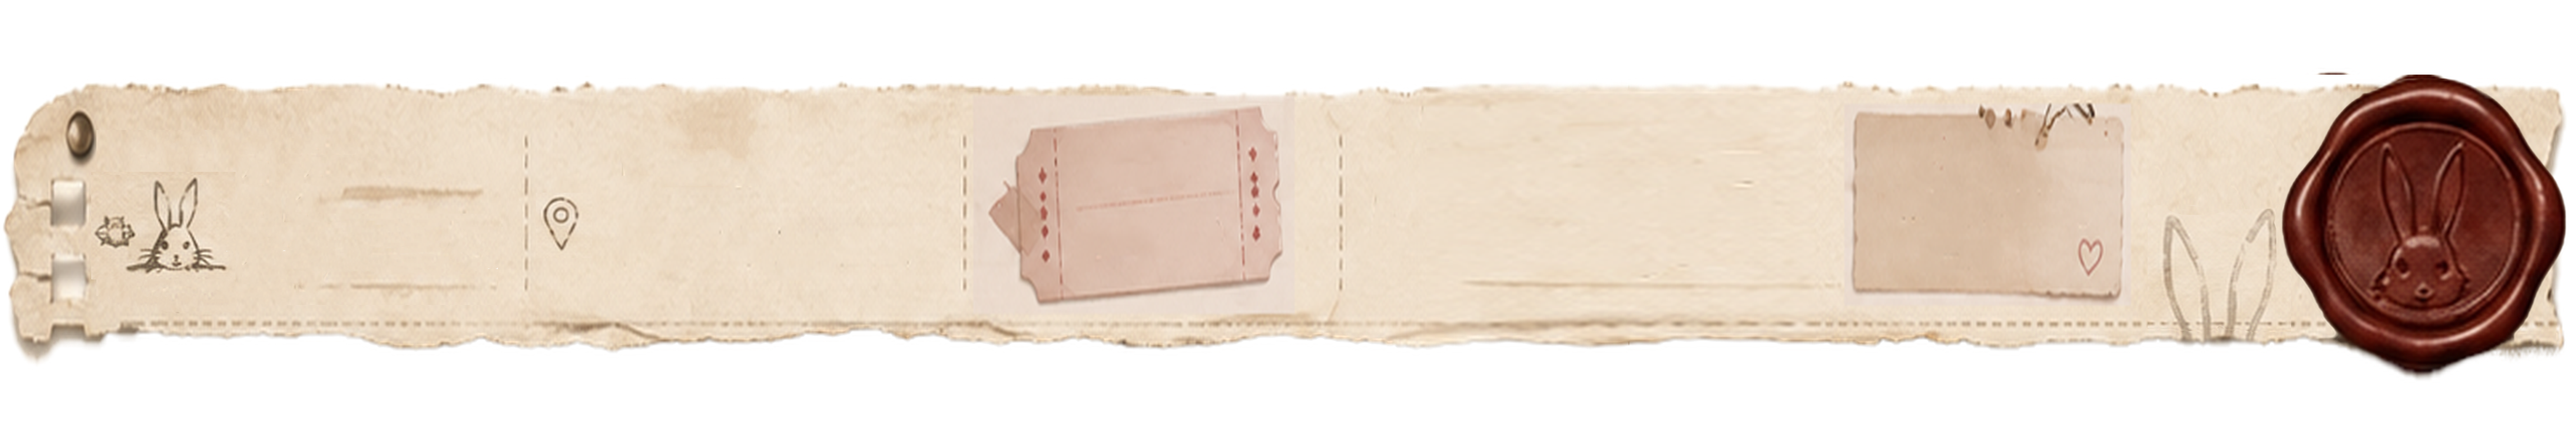
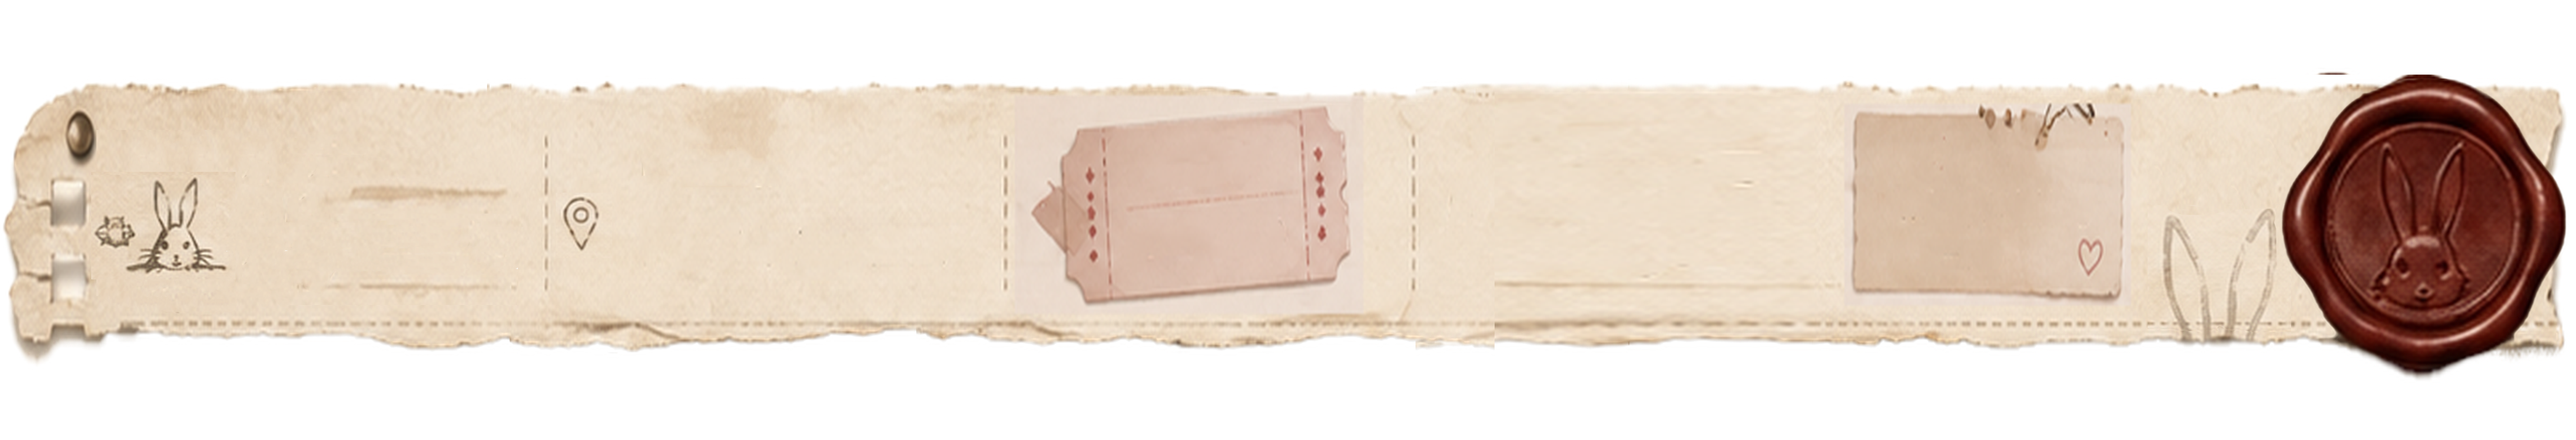
Update Krueger top statusbar

diff --git a/krueger-top-statusbar/index.html b/krueger-top-statusbar/index.html
@@ -1,6 +1,6 @@
-<head><script type="module">var e={455(e,t){t.A=(e,t)=>{const n=e.__vccOpts||e;for(const[e,a]of t)n[e]=a;return n}}},t={};const n=Vue,a={class:'strip-stage','aria-label':'正文前顶部状态栏'},l={class:'status-field time-field'},r={class:'time-line time-date'},o={class:'time-line time-clock'},s={class:'status-field location-field'},c={class:'status-value'},i=['aria-expanded'],u={class:'status-value'},p={class:'status-field weather-field'},m={class:'status-value'},d=['aria-expanded'],f={class:'paper-title'},k={class:'paper-content'},B=(0,n.defineComponent)({__name:'app',setup(e){const t=(0,n.ref)({time:'',location:'',scene:'',weather:'',note:''}),B=(0,n.ref)(null),E=(0,n.computed)(()=>function(e){const t=e.split(/\s*·\s*/g).map(e=>e.trim()).filter(Boolean);if(t.length>=4)return{date:`${t[0]}·${t[1]}·${t[2]}`,weekdayTime:t.slice(3).join(' · ')};return{date:e,weekdayTime:''}}(t.value.time));function g(e){B.value=B.value===e?null:e}function v(){B.value=null}function y(e){return e.split(/([A-Za-z0-9][A-Za-z0-9'"’.,:;!?()/%&+\-\s]*)/g).filter(Boolean).map(e=>({text:e,latin:/[A-Za-z0-9]/.test(e)&&!/[\u3400-\u9fff]/.test(e)}))}return(0,n.onMounted)(()=>{t.value=function(e){const t=(e.match(/<topbar>\s*([\s\S]*?)\s*<\/topbar>/i)?.[1]??e).trim().split('｜').map(e=>e.trim());return{time:t[0]??'',location:t[1]??'',scene:t[2]??'',weather:t[3]??'',note:t[4]??''}}(function(){const e=globalThis.KRUEGER_TOPBAR_DATA;if('string'==typeof e)return e;const t=document.querySelector('#krueger-topbar-source');return t?.value??''}()||function(){try{return getChatMessages(getCurrentMessageId())[0]?.message??''}catch(e){return console.warn('[krueger-top-statusbar] 无法读取当前消息楼层',e),''}}()),window.addEventListener('click',v)}),(0,n.onBeforeUnmount)(()=>{window.removeEventListener('click',v)}),(e,N)=>((0,n.openBlock)(),(0,n.createElementBlock)('article',{class:'topbar-shell',onClick:v},[(0,n.createElementVNode)('section',a,[(0,n.createElementVNode)('div',l,[(0,n.createElementVNode)('span',r,[((0,n.openBlock)(!0),(0,n.createElementBlock)(n.Fragment,null,(0,n.renderList)(y((0,n.unref)(E).date),(e,t)=>((0,n.openBlock)(),(0,n.createElementBlock)('span',{key:`time-date-${t}`,class:(0,n.normalizeClass)({'latin-run':e.latin})},(0,n.toDisplayString)(e.text),3))),128))]),(0,n.createElementVNode)('span',o,[((0,n.openBlock)(!0),(0,n.createElementBlock)(n.Fragment,null,(0,n.renderList)(y((0,n.unref)(E).weekdayTime),(e,t)=>((0,n.openBlock)(),(0,n.createElementBlock)('span',{key:`time-clock-${t}`,class:(0,n.normalizeClass)({'latin-run':e.latin})},(0,n.toDisplayString)(e.text),3))),128))])]),(0,n.createElementVNode)('div',s,[(0,n.createElementVNode)('span',c,[((0,n.openBlock)(!0),(0,n.createElementBlock)(n.Fragment,null,(0,n.renderList)(y((0,n.unref)(t).location),(e,t)=>((0,n.openBlock)(),(0,n.createElementBlock)('span',{key:`location-${t}`,class:(0,n.normalizeClass)({'latin-run':e.latin})},(0,n.toDisplayString)(e.text),3))),128))])]),(0,n.createElementVNode)('button',{class:'status-field scene-ticket',type:'button','aria-expanded':'scene'===(0,n.unref)(B),onClick:N[0]||(N[0]=(0,n.withModifiers)(e=>g('scene'),['stop']))},[(0,n.createElementVNode)('span',u,[((0,n.openBlock)(!0),(0,n.createElementBlock)(n.Fragment,null,(0,n.renderList)(y((0,n.unref)(t).scene),(e,t)=>((0,n.openBlock)(),(0,n.createElementBlock)('span',{key:`scene-${t}`,class:(0,n.normalizeClass)({'latin-run':e.latin})},(0,n.toDisplayString)(e.text),3))),128))])],8,i),(0,n.createElementVNode)('div',p,[(0,n.createElementVNode)('span',m,[((0,n.openBlock)(!0),(0,n.createElementBlock)(n.Fragment,null,(0,n.renderList)(y((0,n.unref)(t).weather),(e,t)=>((0,n.openBlock)(),(0,n.createElementBlock)('span',{key:`weather-${t}`,class:(0,n.normalizeClass)({'latin-run':e.latin})},(0,n.toDisplayString)(e.text),3))),128))])]),(0,n.createElementVNode)('button',{class:'status-field note-card',type:'button','aria-expanded':'note'===(0,n.unref)(B),onClick:N[1]||(N[1]=(0,n.withModifiers)(e=>g('note'),['stop']))},[...N[3]||(N[3]=[(0,n.createElementVNode)('span',{class:'note-label'},'Krueger\'s Note',-1)])],8,d),(0,n.createVNode)(n.Transition,{name:'paper-pop'},{default:(0,n.withCtx)(()=>[(0,n.unref)(B)?((0,n.openBlock)(),(0,n.createElementBlock)('aside',{key:0,class:(0,n.normalizeClass)(['expanded-paper',`${(0,n.unref)(B)}-paper`]),onClick:N[2]||(N[2]=(0,n.withModifiers)(()=>{},['stop']))},[(0,n.createElementVNode)('header',f,(0,n.toDisplayString)('scene'===(0,n.unref)(B)?'Scene':'Krueger\'s Note'),1),(0,n.createElementVNode)('p',k,[((0,n.openBlock)(!0),(0,n.createElementBlock)(n.Fragment,null,(0,n.renderList)(y('scene'===(0,n.unref)(B)?(0,n.unref)(t).scene:(0,n.unref)(t).note),(e,t)=>((0,n.openBlock)(),(0,n.createElementBlock)('span',{key:`paper-${(0,n.unref)(B)}-${t}`,class:(0,n.normalizeClass)({'latin-run':e.latin})},(0,n.toDisplayString)(e.text),3))),128))])],2)):(0,n.createCommentVNode)('v-if',!0)]),_:1})])]))}});var E=function n(a){var l=t[a];if(void 0!==l)return l.exports;var r=t[a]={exports:{}};return e[a](r,r.exports,n),r.exports}(455);const g=(0,E.A)(B,[['__scopeId','data-v-4f783899']]);$(()=>{(0,n.createApp)(g).mount('#app')});
+<head><script type="module">var e={455(e,t){t.A=(e,t)=>{const n=e.__vccOpts||e;for(const[e,a]of t)n[e]=a;return n}}},t={};const n=Vue,a={class:'strip-stage','aria-label':'正文前顶部状态栏'},l={class:'status-field time-field'},r={class:'time-line time-date'},o={class:'time-line time-clock'},s={class:'status-field location-field'},c=['aria-expanded'],i={class:'status-field weather-field'},p={class:'status-value two-line-value'},u=['aria-expanded'],m={key:0,class:'scene-content'},d={key:1,class:'paper-content'},k=(0,n.defineComponent)({__name:'app',setup(e){const t=(0,n.ref)({time:'',location:'',scene:'',weather:'',note:''}),k=(0,n.ref)(null),f=(0,n.computed)(()=>function(e){const t=e.trim().replace(/\s+/g,' ').match(/^(\d{4}·\d{1,2}·\d{1,2})(?:\s*(.*))?$/);if(t){const e=(t[2]??'').replace(/^\s*·\s*/,'').replace(/\s*·\s*/g,' ').replace(/\s+/g,' ').trim();return{date:t[1],weekdayTime:e}}return{date:e,weekdayTime:''}}(t.value.time)),B=(0,n.computed)(()=>b(t.value.scene)),E=(0,n.computed)(()=>{const e=y(t.value.location);return e>=22?'is-location-very-long':e>=16?'is-location-long':''});function g(e){return/[A-Za-z0-9]/.test(e)?.6:/[，。！？、；：“”‘’（）《》【】]/.test(e)?.5:1}function y(e){return Array.from(e).reduce((e,t)=>e+g(t),0)}function v(e){k.value=k.value===e?null:e}function h(){k.value=null}function w(e){return e.split(/([A-Za-z0-9][A-Za-z0-9'"’.,:;!?()/%&+\-\s]*)/g).filter(Boolean).map(e=>({text:e,latin:/[A-Za-z0-9]/.test(e)&&!/[\u3400-\u9fff]/.test(e)}))}function b(e){const t=Array.from(e.trim());if(t.length<=1)return[e.trim()];const n=new Set([' ','·','-','/','、','，',',','。',':','：']),a=y(e.trim())/2;let l=Math.ceil(a),r=Number.POSITIVE_INFINITY;for(let e=1;e<t.length;e+=1){const o=t[e-1],s=t[e],c=n.has(o)||n.has(s)?-1.2:0,i=t.slice(0,e).reduce((e,t)=>e+g(t),0),p=Math.abs(i-a)+c;p<r&&(r=p,l=n.has(s)?e+1:e)}const o=t.slice(0,l).join('').trim(),s=t.slice(l).join('').trim();return s?[o,s]:[o]}return(0,n.onMounted)(()=>{t.value=function(e){const t=(e.match(/<topbar>\s*([\s\S]*?)\s*<\/topbar>/i)?.[1]??e).trim().split('｜').map(e=>e.trim());return{time:t[0]??'',location:t[1]??'',scene:t[2]??'',weather:t[3]??'',note:t[4]??''}}(function(){const e=globalThis.KRUEGER_TOPBAR_DATA;if('string'==typeof e)return e;const t=document.querySelector('#krueger-topbar-source');return t?.value??''}()||function(){try{return getChatMessages(getCurrentMessageId())[0]?.message??''}catch(e){return console.warn('[krueger-top-statusbar] 无法读取当前消息楼层',e),''}}()),window.addEventListener('click',h)}),(0,n.onBeforeUnmount)(()=>{window.removeEventListener('click',h)}),(e,g)=>((0,n.openBlock)(),(0,n.createElementBlock)('article',{class:(0,n.normalizeClass)(['topbar-shell',{'is-expanded':(0,n.unref)(k)}]),onClick:h},[(0,n.createElementVNode)('section',a,[(0,n.createElementVNode)('div',l,[(0,n.createElementVNode)('span',r,[((0,n.openBlock)(!0),(0,n.createElementBlock)(n.Fragment,null,(0,n.renderList)(w((0,n.unref)(f).date),(e,t)=>((0,n.openBlock)(),(0,n.createElementBlock)('span',{key:`time-date-${t}`,class:(0,n.normalizeClass)({'latin-run':e.latin})},(0,n.toDisplayString)(e.text),3))),128))]),(0,n.createElementVNode)('span',o,[((0,n.openBlock)(!0),(0,n.createElementBlock)(n.Fragment,null,(0,n.renderList)(w((0,n.unref)(f).weekdayTime),(e,t)=>((0,n.openBlock)(),(0,n.createElementBlock)('span',{key:`time-clock-${t}`,class:(0,n.normalizeClass)({'latin-run':e.latin})},(0,n.toDisplayString)(e.text),3))),128))])]),(0,n.createElementVNode)('div',s,[(0,n.createElementVNode)('span',{class:(0,n.normalizeClass)(['status-value two-line-value',(0,n.unref)(E)])},[((0,n.openBlock)(!0),(0,n.createElementBlock)(n.Fragment,null,(0,n.renderList)(b((0,n.unref)(t).location),(e,t)=>((0,n.openBlock)(),(0,n.createElementBlock)('span',{key:`location-line-${t}`,class:'balanced-line'},[((0,n.openBlock)(!0),(0,n.createElementBlock)(n.Fragment,null,(0,n.renderList)(w(e),(e,a)=>((0,n.openBlock)(),(0,n.createElementBlock)('span',{key:`location-${t}-${a}`,class:(0,n.normalizeClass)({'latin-run':e.latin})},(0,n.toDisplayString)(e.text),3))),128))]))),128))],2)]),(0,n.createElementVNode)('button',{class:'status-field scene-ticket',type:'button','aria-label':'展开场景便笺','aria-expanded':'scene'===(0,n.unref)(k),onClick:g[0]||(g[0]=(0,n.withModifiers)(e=>v('scene'),['stop']))},[...g[3]||(g[3]=[(0,n.createElementVNode)('span',{class:'scene-label'},' Scene ',-1)])],8,c),(0,n.createElementVNode)('div',i,[(0,n.createElementVNode)('span',p,[((0,n.openBlock)(!0),(0,n.createElementBlock)(n.Fragment,null,(0,n.renderList)(b((0,n.unref)(t).weather),(e,t)=>((0,n.openBlock)(),(0,n.createElementBlock)('span',{key:`weather-line-${t}`,class:'balanced-line'},[((0,n.openBlock)(!0),(0,n.createElementBlock)(n.Fragment,null,(0,n.renderList)(w(e),(e,a)=>((0,n.openBlock)(),(0,n.createElementBlock)('span',{key:`weather-${t}-${a}`,class:(0,n.normalizeClass)({'latin-run':e.latin})},(0,n.toDisplayString)(e.text),3))),128))]))),128))])]),(0,n.createElementVNode)('button',{class:'status-field note-card',type:'button','aria-label':'展开Krueger留言','aria-expanded':'note'===(0,n.unref)(k),onClick:g[1]||(g[1]=(0,n.withModifiers)(e=>v('note'),['stop']))},[...g[4]||(g[4]=[(0,n.createElementVNode)('span',{class:'note-label'},[(0,n.createElementVNode)('span',null,'Krueger\'s'),(0,n.createElementVNode)('span',null,'Note')],-1)])],8,u),(0,n.createVNode)(n.Transition,{name:'paper-pop'},{default:(0,n.withCtx)(()=>[(0,n.unref)(k)?((0,n.openBlock)(),(0,n.createElementBlock)('aside',{key:0,class:(0,n.normalizeClass)(['expanded-paper',`${(0,n.unref)(k)}-paper`]),onClick:g[2]||(g[2]=(0,n.withModifiers)(()=>{},['stop']))},['scene'===(0,n.unref)(k)?((0,n.openBlock)(),(0,n.createElementBlock)('div',m,[((0,n.openBlock)(!0),(0,n.createElementBlock)(n.Fragment,null,(0,n.renderList)((0,n.unref)(B),(e,t)=>((0,n.openBlock)(),(0,n.createElementBlock)('span',{key:`scene-paper-line-${t}`,class:'scene-paper-line'},[((0,n.openBlock)(!0),(0,n.createElementBlock)(n.Fragment,null,(0,n.renderList)(w(e),(e,a)=>((0,n.openBlock)(),(0,n.createElementBlock)('span',{key:`scene-paper-${t}-${a}`,class:(0,n.normalizeClass)({'latin-run':e.latin})},(0,n.toDisplayString)(e.text),3))),128))]))),128))])):((0,n.openBlock)(),(0,n.createElementBlock)('p',d,[((0,n.openBlock)(!0),(0,n.createElementBlock)(n.Fragment,null,(0,n.renderList)(w((0,n.unref)(t).note),(e,t)=>((0,n.openBlock)(),(0,n.createElementBlock)('span',{key:`paper-note-${t}`,class:(0,n.normalizeClass)({'latin-run':e.latin})},(0,n.toDisplayString)(e.text),3))),128))]))],2)):(0,n.createCommentVNode)('v-if',!0)]),_:1})])],2))}});var f=function n(a){var l=t[a];if(void 0!==l)return l.exports;var r=t[a]={exports:{}};return e[a](r,r.exports,n),r.exports}(455);const B=(0,f.A)(k,[['__scopeId','data-v-40b61846']]);$(()=>{(0,n.createApp)(B).mount('#app')});
 //# sourceMappingURL=index.js.map</script><style>@import url(https://fontsapi.zeoseven.com/256/main/result.css);
 @import url(https://fonts.googleapis.com/css2?family=Beth+Ellen&display=swap);
-/*! tailwindcss v4.1.18 | MIT License | https://tailwindcss.com */.topbar-shell[data-v-4f783899]{--strip-url:url('https://testingcf.jsdelivr.net/gh/jzmurong/tavern_img/krueger-top-strip-large.png');--scene-paper-url:url('https://testingcf.jsdelivr.net/gh/jzmurong/tavern_img/krueger-top-scene-note.png');--note-paper-url:url('https://testingcf.jsdelivr.net/gh/jzmurong/tavern_img/krueger-top-note-card.png');--cn-font:'Huiwen-mincho','Songti SC','STSong',serif;--hand-font:'Beth Ellen','Huiwen-mincho',cursive;--ink:#4d372b;--muted-ink:#806b5d;box-sizing:border-box;width:100%;margin:clamp(8px,1.5vw,16px) auto;padding:clamp(5px,.75vw,10px) 0 clamp(14px,1.8vw,28px);color:var(--ink);font-family:var(--cn-font);overflow:visible}.topbar-shell[data-v-4f783899] *,.topbar-shell[data-v-4f783899] *::before,.topbar-shell[data-v-4f783899] *::after{box-sizing:border-box}.strip-stage[data-v-4f783899]{position:relative;width:min(100%,1180px);aspect-ratio:5929/1014;margin:0 auto;overflow:visible;background-image:var(--strip-url);background-position:center;background-repeat:no-repeat;background-size:100% 100%;filter:drop-shadow(0 4px 6px rgba(53,36,24,0.22))}.status-field[data-v-4f783899]{position:absolute;z-index:2;display:flex;align-items:center;justify-content:center;min-width:0;border:0;background:rgba(0,0,0,0);color:var(--ink);font:inherit;line-height:1.18;text-align:center}.status-value[data-v-4f783899],.note-label[data-v-4f783899]{display:-webkit-box;max-width:100%;overflow:hidden;text-overflow:ellipsis;overflow-wrap:anywhere;-webkit-box-orient:vertical;-webkit-line-clamp:2;text-shadow:0 1px 0 rgba(255,249,238,.58)}.latin-run[data-v-4f783899]{font-family:var(--hand-font)}.time-field[data-v-4f783899]{left:10.45%;top:24.1%;width:9.55%;height:22%;align-items:stretch;justify-content:flex-start;font-size:clamp(14px,1.42vw,22px);line-height:1;transform:rotate(-0.5deg)}.time-line[data-v-4f783899]{position:absolute;left:1%;right:0;display:block;overflow:visible;white-space:nowrap;color:var(--ink);text-align:left;text-shadow:0 1px 0 rgba(255,249,238,.58)}.time-date[data-v-4f783899]{top:6%}.time-clock[data-v-4f783899]{top:48%}.location-field[data-v-4f783899]{left:22.1%;top:24.8%;width:14.2%;height:29%;font-size:clamp(12px,1.1vw,18px);justify-content:flex-start;padding-left:1.5%;text-align:left}.scene-ticket[data-v-4f783899]{left:37.4%;top:18.5%;width:14.7%;height:34%;padding:.5% 1.6% 0;cursor:pointer;font-size:clamp(11px,1vw,16px);transform:rotate(-2deg)}.weather-field[data-v-4f783899]{left:53.2%;top:27.2%;width:17.7%;height:25%;padding:0 1.2%;font-size:clamp(12px,1.08vw,17px)}.note-card[data-v-4f783899]{left:71.9%;top:15.8%;width:10.6%;height:42%;padding:1.1% 1.1% 0;cursor:pointer;transform:rotate(1.4deg)}.note-label[data-v-4f783899]{font-family:var(--hand-font);font-size:clamp(10px,.95vw,15px);line-height:1.35;color:#92564d;-webkit-line-clamp:2}.scene-ticket[data-v-4f783899]:focus-visible,.note-card[data-v-4f783899]:focus-visible{outline:1px dashed rgba(127,77,63,.55);outline-offset:-3px}.expanded-paper[data-v-4f783899]{position:absolute;z-index:8;display:flex;flex-direction:column;gap:clamp(4px,.65vw,9px);border:0;color:var(--ink);background-repeat:no-repeat;background-position:center;background-size:100% 100%;filter:drop-shadow(0 12px 18px rgba(45,28,18,0.25))}.scene-paper[data-v-4f783899]{left:35.9%;top:4.5%;width:25.5%;aspect-ratio:622/330;padding:7.2% 4.1% 5.2% 5.4%;background-image:var(--scene-paper-url);transform:rotate(-2deg)}.note-paper[data-v-4f783899]{left:65.6%;top:-7%;width:22.5%;aspect-ratio:500/426;padding:6.8% 3.7% 5.4%;background-image:var(--note-paper-url);transform:rotate(1.2deg)}.paper-title[data-v-4f783899]{flex:0 0 auto;font-family:var(--hand-font);font-size:clamp(11px,1.02vw,16px);line-height:1.2;color:#8b5648;text-align:center}.paper-content[data-v-4f783899]{flex:1 1 auto;min-height:0;margin:0;overflow:auto;color:var(--ink);font-family:var(--cn-font);font-size:clamp(12px,1.08vw,17px);line-height:1.55;letter-spacing:.02em;text-align:left;overflow-wrap:anywhere;white-space:pre-wrap;scrollbar-width:none}.paper-content[data-v-4f783899]::-webkit-scrollbar{display:none}.paper-pop-enter-active[data-v-4f783899],.paper-pop-leave-active[data-v-4f783899]{transition:opacity 180ms ease,transform 180ms ease}.paper-pop-enter-from[data-v-4f783899],.paper-pop-leave-to[data-v-4f783899]{opacity:0}.paper-pop-enter-from.scene-paper[data-v-4f783899],.paper-pop-leave-to.scene-paper[data-v-4f783899]{transform:translateY(-6px) rotate(-2deg) scale(0.96)}.paper-pop-enter-from.note-paper[data-v-4f783899],.paper-pop-leave-to.note-paper[data-v-4f783899]{transform:translateY(-6px) rotate(1.2deg) scale(0.96)}
+/*! tailwindcss v4.1.18 | MIT License | https://tailwindcss.com */.topbar-shell[data-v-40b61846]{--strip-url:url('http://127.0.0.1:5500/dist/krueger-top-strip-large.png');--scene-paper-url:url('http://127.0.0.1:5500/dist/krueger-top-scene-note.png');--note-paper-url:url('http://127.0.0.1:5500/dist/krueger-top-note-card.png');--cn-font:'Huiwen-mincho','Songti SC','STSong',serif;--hand-font:'Beth Ellen','Huiwen-mincho',cursive;--ink:#4d372b;--muted-ink:#806b5d;box-sizing:border-box;width:100%;margin:clamp(8px,1.5vw,16px) auto;padding:clamp(5px,.75vw,10px) 0 clamp(14px,1.8vw,28px);color:var(--ink);font-family:var(--cn-font);overflow:visible;transition:padding-bottom 180ms ease}.topbar-shell.is-expanded[data-v-40b61846]{padding-bottom:clamp(52px,9vw,105px)}.topbar-shell[data-v-40b61846] *,.topbar-shell[data-v-40b61846] *::before,.topbar-shell[data-v-40b61846] *::after{box-sizing:border-box}.strip-stage[data-v-40b61846]{position:relative;width:min(100%,1180px);aspect-ratio:5929/1014;margin:0 auto;overflow:visible;container-type:inline-size;background-image:var(--strip-url);background-position:center;background-repeat:no-repeat;background-size:100% 100%;filter:drop-shadow(0 4px 6px rgba(53,36,24,0.22))}.status-field[data-v-40b61846]{position:absolute;z-index:2;display:flex;align-items:center;justify-content:center;min-width:0;border:0;background:rgba(0,0,0,0);color:var(--ink);font:inherit;line-height:1.18;text-align:center}.status-value[data-v-40b61846],.note-label[data-v-40b61846]{display:-webkit-box;width:100%;max-width:100%;overflow:hidden;text-overflow:ellipsis;overflow-wrap:anywhere;-webkit-box-orient:vertical;-webkit-line-clamp:2;text-shadow:0 1px 0 rgba(255,249,238,.58)}.two-line-value[data-v-40b61846]{display:flex;flex-direction:column;align-items:center;justify-content:center;gap:.08em;-webkit-line-clamp:unset}.balanced-line[data-v-40b61846]{display:block;width:100%;overflow:hidden;text-overflow:clip;white-space:nowrap}.latin-run[data-v-40b61846]{font-family:var(--hand-font)}.time-field[data-v-40b61846]{left:8.9%;top:27.4%;width:12.4%;height:29%;align-items:stretch;justify-content:flex-start;font-size:clamp(8px,2.22cqw,17px);line-height:1;transform:rotate(-0.5deg)}.time-line[data-v-40b61846]{position:absolute;left:0;right:0;display:block;overflow:hidden;white-space:nowrap;color:var(--ink);text-align:right;text-overflow:clip;text-shadow:0 1px 0 rgba(255,249,238,.58)}.time-date[data-v-40b61846]{top:4%}.time-clock[data-v-40b61846]{top:80%}.location-field[data-v-40b61846]{left:24.3%;top:39%;width:12.6%;height:23%;font-size:clamp(9px,2.25cqw,17px);justify-content:flex-start;padding-left:0;text-align:left}.location-field .status-value[data-v-40b61846]{overflow:hidden}.location-field .is-location-long[data-v-40b61846]{font-size:.86em;line-height:1.1}.location-field .is-location-very-long[data-v-40b61846]{font-size:.74em;line-height:1.05}.scene-ticket[data-v-40b61846]{left:40%;top:24%;width:12.45%;height:45.5%;padding:.8% 1.45% 0;cursor:pointer;font-size:clamp(10px,2.65cqw,20px);transform:rotate(-7.5deg)}.scene-label[data-v-40b61846]{display:block;width:100%;overflow:hidden;color:#7f4f46;font-family:var(--hand-font);line-height:1.05;text-align:center;white-space:nowrap;text-shadow:0 1px 0 rgba(255,249,238,.58);transform:translate(4%,-5%)}.weather-field[data-v-40b61846]{left:54.4%;top:36.5%;width:16.6%;height:25%;padding:0 1.2%;font-size:clamp(9px,2.2cqw,17px)}.note-card[data-v-40b61846]{left:71.8%;top:23.2%;width:10.65%;height:46%;padding:1.1% 1.1% 0;cursor:pointer;transform:rotate(1.4deg)}.note-label[data-v-40b61846]{display:flex;flex-direction:column;align-items:center;overflow:visible;font-family:var(--hand-font);font-size:clamp(8px,2.05cqw,16px);line-height:1.08;color:#92564d;-webkit-line-clamp:unset}.note-label span[data-v-40b61846]{display:block;overflow:visible;white-space:nowrap}.note-label span[data-v-40b61846]:first-child{transform:translateY(-0.18em)}.scene-ticket[data-v-40b61846]:focus-visible,.note-card[data-v-40b61846]:focus-visible{outline:1px dashed rgba(127,77,63,.55);outline-offset:-3px}.expanded-paper[data-v-40b61846]{position:absolute;z-index:8;display:flex;flex-direction:column;gap:0;border:0;color:var(--ink);background-repeat:no-repeat;background-position:center;background-size:100% 100%;filter:drop-shadow(0 12px 18px rgba(45,28,18,0.25))}.scene-paper[data-v-40b61846]{left:35.9%;top:1.5%;width:25.5%;height:13.53cqw;aspect-ratio:622/330;overflow:hidden;padding:0;background-image:var(--scene-paper-url);transform:rotate(-7.5deg)}.note-paper[data-v-40b61846]{left:63.3%;top:-7%;width:24%;aspect-ratio:500/426;overflow:hidden;padding:0;background-image:var(--note-paper-url);transform:rotate(1.2deg)}.paper-content[data-v-40b61846]{flex:1 1 auto;min-height:0;margin:0;overflow:auto;color:var(--ink);font-family:var(--cn-font);font-size:clamp(12px,1.08vw,17px);line-height:1.55;letter-spacing:.02em;text-align:left;overflow-wrap:anywhere;white-space:pre-wrap;scrollbar-width:none}.paper-content[data-v-40b61846]::-webkit-scrollbar{display:none}.scene-content[data-v-40b61846]{position:absolute;left:18%;right:16.5%;top:27%;bottom:24%;display:grid;grid-template-rows:1fr 1fr;row-gap:6%;align-items:center;justify-items:center;overflow:hidden;color:var(--ink);font-family:var(--cn-font);font-size:clamp(14px,1.24vw,19px);line-height:1.08;letter-spacing:.02em;text-align:center;white-space:nowrap}.scene-paper-line[data-v-40b61846]{display:block;width:100%;overflow:hidden;text-overflow:clip;white-space:nowrap}.note-paper .paper-content[data-v-40b61846]{position:absolute;inset:17% 7% 7% 10%;font-size:clamp(14px,1.2vw,19px);max-height:none}.paper-pop-enter-active[data-v-40b61846],.paper-pop-leave-active[data-v-40b61846]{transition:opacity 180ms ease,transform 180ms ease}.paper-pop-enter-from[data-v-40b61846],.paper-pop-leave-to[data-v-40b61846]{opacity:0}.paper-pop-enter-from.scene-paper[data-v-40b61846],.paper-pop-leave-to.scene-paper[data-v-40b61846]{transform:translateY(-6px) rotate(-7.5deg) scale(0.96)}.paper-pop-enter-from.note-paper[data-v-40b61846],.paper-pop-leave-to.note-paper[data-v-40b61846]{transform:translateY(-6px) rotate(1.2deg) scale(0.96)}
 
 /*# sourceMappingURL=main.css.map*/</style></head><body><div id="app"></div></body>
